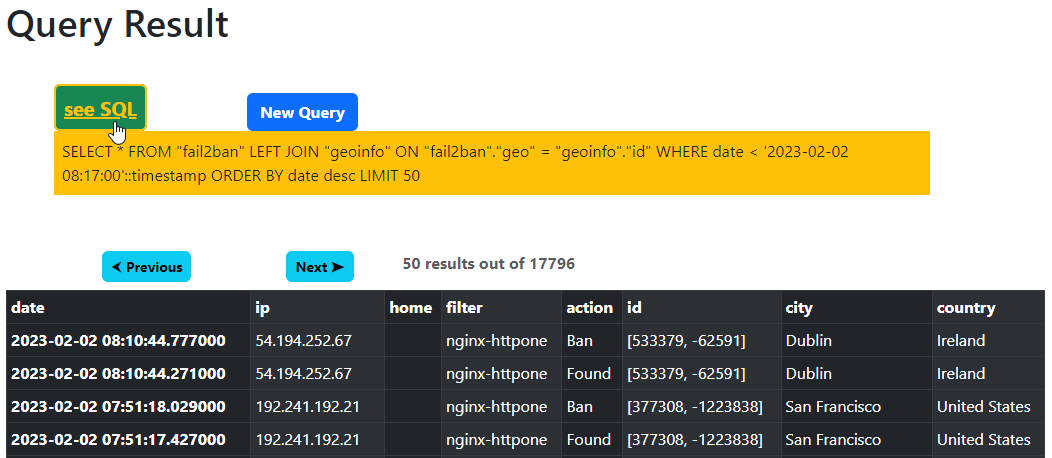
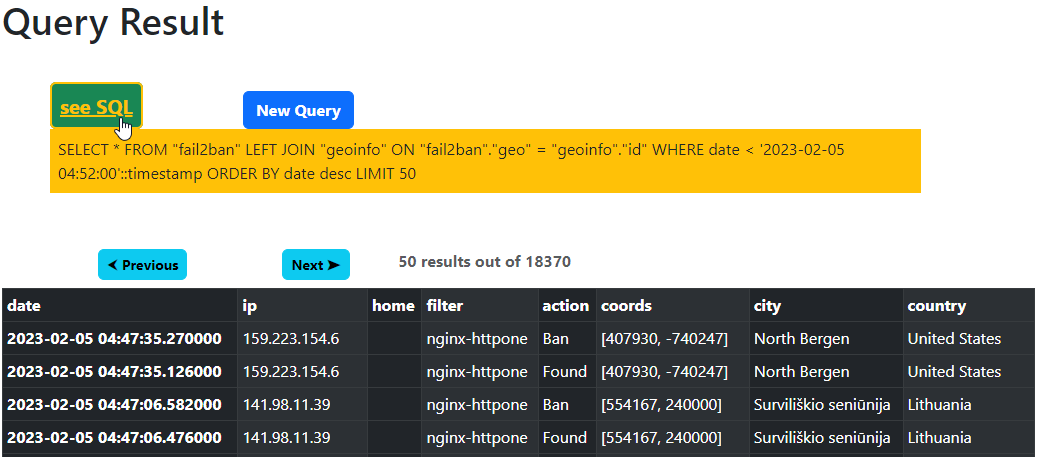
bugfixes, improvements. added to docs

diff --git a/BeatLog/templates/data_view.html b/BeatLog/templates/data_view.html
@@ -48,7 +48,7 @@
 		  <a class="btn btn-sm btn-secondary rounded mx-5 fs-5 fw-bold" href="#IPCollapse" data-bs-toggle="collapse">IP Address</a>
 	    </div>
 		<div class="collapse my-2" id="LocationCollapse">
-		  <p class="text-muted fw-bold ms-5">Specify Country and/or City . . .</p>
+		  <p class="text-muted fw-bold ms-5">Specify Country and/or City . . . <span class="mx-5">check NULL for <a href="{{ url_for('geography.geography') }}">unnamed</a> locations</span></p>
 
 		  <div class="d-flex">
 			  <input class="form-check-input ms-3 px-2 mt-2" type="checkbox" value="" name="countryNULL">
@@ -99,7 +99,7 @@
 		      <button type="submit" class="btn btn-sm btn-dark me-3 fw-bold rounded" name="query_log" value="{{ log }},{{ query|lower }}" 
 			  formtarget="_blank" data-bs-toggle="tooltip" title="{{ log_buttons[log][query] }}" data-bs-html="true">{{ query }}</button>
 			{% endfor %}
-			{% if log == 'fail2ban' %}<em class="mt-1 fw-bold" style="font-size:0.9em"><a href="https://github.com/NBPub/BeatLog/tree/main/docs#known-devices">"Ignorable" docs</a></em>{% endif %}
+			{% if log == 'fail2ban' %}<em class="mt-1 fw-bold" style="font-size:0.9em"><a href="https://github.com/NBPub/BeatLog/tree/main/docs#home-ignorable">"Ignorable" docs</a></em>{% endif %}
 		  </div><br><div class="btn-group my-2" role="group">
 			{% for query in lb2[log] %}
 			  <button type="submit" class="btn btn-sm btn-success me-3 fw-bold rounded" name="query_log" value="{{ log }},{{ query|lower }}" 

diff --git a/docs/index.html b/docs/index.html
@@ -457,7 +457,7 @@
 	    <button class="btn btn-dark ms-4" type="button" data-bs-toggle="collapse" data-bs-target="#homeIgnores">Show Log Matches: 4</button>	
 	    <div class="collapse" id="homeIgnores">
 	      <table class="table table-sm table-responsive table-hover table-bordered table-striped-columns table-dark me-5 mt-3 caption-top">
-		    <caption>More than one access log entry may match a fail2ban ignore. Specify <a href="/settings/">fail2ban home ignores</a> to improve matching.</caption>
+		    <caption>More than one access log entry may match a fail2ban ignore. Specify <a class="disabled" href="/settings/">fail2ban home ignores</a> to improve matching.</caption>
 		    <thead><tr><th scope="col">Date</th><th scope="col">Filter</th><th scope="col">http</th><th scope="col">Method</th><th scope="col">Status</th><th scope="col">bytes</th><th scope="col">Ref+URL</th><th scope="col">Tech</th></tr></thead>
 <tbody>
 <tr>

diff --git a/BeatLog/templates/home.html b/BeatLog/templates/home.html
@@ -2,7 +2,7 @@
 {% block title %}BeatLog - Home{% endblock %}
 {% block content %}
     <h1>BeatLog
-	  <div class="btn-group" role="group" style="float:right;">
+	  <div class="btn-group my-1" role="group" style="float:right;">
 	{% if places == 0 %}
 	    <a href="{{ url_for('home.settings', _anchor='Geography') }}" class="fw-bold btn btn-sm btn-success border-light">Enable Locations</a>
 	{% elif noname %}

diff --git a/BeatLog/db_view.py b/BeatLog/db_view.py
@@ -117,15 +117,17 @@ def db_view_result():
             # clean for geoinfo
             remove = []
             if 'coords' in cols:
-                remove = [cols.index(val) for val in ['geo','id']]
+                remove = ['geo','id']
+                rm_ind = [cols.index(k) for k in remove]
             elif 'geo' in cols:
-                remove = [cols.index('geo')]            
+                remove = ['geo'] 
+                rm_ind = [cols.index(k) for k in remove]
             if remove != []:
                 olddata = data
                 data = []
                 for i,val in enumerate(olddata):
-                    data.append([olddata[i][k] for k in range(0,len(olddata[i])) if k not in remove])
-                _ = [cols.pop(k) for k in remove]
+                    data.append([olddata[i][k] for k in range(0,len(olddata[i])) if k not in rm_ind])
+                _ = [cols.pop(cols.index(k)) for k in remove]
             table = table_build(data, cols, True)            
             # if result > size limit, provide "next" query, and provide current query for return
             total = cur.execute(' '.join([val.as_string(cur) for val in check_seq])).fetchone()[0] 

diff --git a/BeatLog/db_query.py b/BeatLog/db_query.py
@@ -143,7 +143,7 @@ method, status, bytes, CONCAT(referrer, URL) "URL", tech FROM "fail2ban"''')
             sequence.insert(1, sql.SQL('LEFT JOIN {} ON {}.{} = {}.{}').format(sql.Identifier('geoinfo'), 
                         sql.Identifier(log), sql.Identifier('geo'), 
                         sql.Identifier('geoinfo'), sql.Identifier('id')))
-            cols+=['id','coords','city','country']       
+            cols+=['id','coords','city','country']      
     # enable location search if geoinfo exists and it's specified
         if (options[0] or options[1]) and geocheck == []:
             return False, ('❖ No location data to search within query ❖', sequence), None    

diff --git a/docs/README.md b/docs/README.md
@@ -16,7 +16,8 @@
 - [Report](#report-demo)
 	- [Home](#home-demo)
 	- [Outside](#outside-demo)
-	- [Settings, Known Devices](#known-devices)
+	- [Settings: Known Devices](#known-devices)
+	- [Settings: Home Ignorable](#home-ignorable)	
 	- [fail2ban](#fail2ban-demo)
 - [Beat! Button](#beat-button)
 - [Database Explorer](#database-explorer)
@@ -264,7 +265,7 @@ Each unique coordinate pair is saved in a **Geography** table. As described abov
 
 Routine home IP checks and log parsing can be scheduled using the `check_IP` and `check_Log` environmental variables.
 
-Example log of scheduled tasks:
+Example log of scheduled tasks: *comments added by me, they are not part of the log*
 ```python
 [2022-09-17 12:57:04] [1] [INFO] Scheduled Home IP check complete
 [2022-09-17 13:11:37] [1] [INFO] Scheduled Log check complete 
@@ -273,8 +274,9 @@ fail2ban: Parsing completed, 11 lines added in 0s.
 error: Parsing completed, 2 lines added in 0s
 # if locations are enabled and unnamed coordinates exist and a nominatim agent is specified
 # attempt location fill
-[2022-09-17 13:11:41] [1] [INFO] 	Location Fill: 3 locations named out of 4 in 5 seconds
-[2022-09-17 13:11:41] [1] [INFO] Error -- 'address' for (-43.0,67.0).  (35.0,33.0) named Kannavia, Cyprus.  (34.0021,-81.0423) named Columbia, United States.  (28.5,-10.0) named caïdat d'Aouint Lahna, Morocco
+[2022-09-17 13:11:41] [1] [INFO] Location Fill: 3 locations named out of 4 in 5 seconds
+[2022-09-17 13:11:41] [1] [INFO] (35.0,33.0) named Kannavia, Cyprus. (34.0021,-81.0423) named Columbia, United States. (28.5,-10.0) named caïdat d'Aouint Lahna, Morocco
+[2022-09-17 13:11:41] [1] [INFO] Error -- 'address' for (-43.0,67.0)
 # address not found for one location, manual update required
 # see links below
 ```
@@ -369,6 +371,8 @@ Once **Known Devices** have been identified, they can be separated / excluded fr
 
 ![report_set](/docs/pics/Settings_report.png "exclude Known Devices in Report settings")
 
+### Home Ignorable
+
 The criteria for **fail2ban home ignores** may seem redundant, provided the [discussion](#home) in the home section. 
 If fail2ban ignores are found, they are matched to home request(s) based on timestamp and presented together in the **Home Ignores** table. 
 
@@ -437,6 +441,25 @@ a specific start or end time specified. They default to `Starting : one week bef
 ![dataview1](/docs/pics/query_1.png "Query options for Database Explorer") 
 
 Each log be explored, and a variety of filters, settings, and log-specific pre-assembled queries are provided.
+
+| Log - Query | Description |
+| :----: | --- |
+| **ALL** - Basic | Simply use the options specified at the top of the page. They default to all entries, going back from now, limited to 50 rows per page. |
+| --- | --- | --- |
+| **Access** - Ignorable | Hits matching *Home Ignorable* [specification](#home-ignorable), if set. |
+| **Access** - Known Devices | Hits with user-agents matching *Known Devices* [specification](#known-devices), if set. |
+| **Access** - Filtrate | Outside hits with IPs not banned by fail2ban. Matches limited to one-week blocks. |
+| **Access** - Regex2 | Log data processed by the *default* secondary [regex method](#adding-regex-to-logs). They lack [data](#access-logs---access) for HTTP protocol version and request method. |
+| **Access** - HTTP v X | Hits with the specified HTTP network protocol [version](https://developer.mozilla.org/en-US/docs/Web/HTTP/Basics_of_HTTP/Evolution_of_HTTP). One grouping for `2.0` and another for `1.0, 1.1` |
+| **Access** - HTTP Xxx | Hits with the specified HTTP response [status code](https://developer.mozilla.org/en-US/docs/Web/HTTP/Status) grouping. see [Neat Reference](https://www.httpstatuses.org/) |
+| --- | --- | --- |
+| **Error** - IP v X | Internet Protocol address [version](https://en.wikipedia.org/wiki/IP_address#IP_versions). `IPv4` or `IPv6` |
+| **Error** - Filtrate | Outside hits with IPs not banned by fail2ban. Matches limited to one-week blocks. |
+| **Error** - Level | All available Error Log [severity levels](https://en.wikipedia.org/wiki/Syslog#Severity_level) for entries are provided. Parsed data [info](#error-log---error)  |
+| --- | --- | --- |
+| **fail2ban** - Ignores | fail2ban entries with the "Ignore" action. I have fail2ban ignore my local, "Home", IP to allow me to tailor filters.  |
+| **fail2ban** - Match Ignores | Attempt to match fail2ban ignores with home hits on the access log. Home Ignorable [specification](#home-ignorable) may improve matching. Same table as shown in [report](https://nbpub.github.io/BeatLog/#scrollspyHomeIgs). |
+| **fail2ban** - Filter | query for each fail2ban filter |
 
 ![dataview2](/docs/pics/query_2.png "Queries for each log, basic simply uses the options shown above") 
 

diff --git a/README.md b/README.md
@@ -1,7 +1,6 @@
-# <img src="https://raw.githubusercontent.com/NBPub/BeatLog/main/BeatLog/static/favicon.png" title="BeatLog!"> BeatLog 
+# <img src="https://raw.githubusercontent.com/NBPub/BeatLog/main/BeatLog/static/favicon.png" title="BeatLog!"> BeatLog
 
-
-## Overview
+## Overview | [Documentation](/docs#contents)
 - [Background](#background)
 - [Features](#features)
 - [Installation](#installation)
@@ -9,7 +8,7 @@
 	- [Parameters](#parameters)
 	- [Data Sources](#data-sources)	
 	- [Optional Extras](#extra-options)	
-	- [Updates](#updating-postgresql-container), [Container Interaction](#shell-acess-to-container)
+	- [Updates](#updating-postgresql-container), [Container Interaction](#shell-acess-to-beatlog-container)
 - [Setup](#application-setup)
 - [Development](#development)
 	- [Feedback](#development)
@@ -19,15 +18,16 @@
 	
 ## Background
 
-**BeatLog** parses [NGINX](https://www.nginx.com/) reverse proxy and [fail2ban](https://www.fail2ban.org/wiki/index.php/Main_Page) logs into readable tables and reports. 
-Use **BeatLog** to assess server traffic and tailor fail2ban filters.
-
 ![Flask](https://img.shields.io/badge/flask-%23000.svg?style=for-the-badge&logo=flask&logoColor=white)
 ![Postgres](https://img.shields.io/badge/postgres-%23316192.svg?style=for-the-badge&logo=postgresql&logoColor=white)
 ![Jinja](https://img.shields.io/badge/jinja-white.svg?style=for-the-badge&logo=jinja&logoColor=black)
 ![Bootstrap](https://img.shields.io/badge/bootstrap-%23563D7C.svg?style=for-the-badge&logo=bootstrap&logoColor=white)
 ![Chart.js](https://img.shields.io/badge/chart.js-F5788D.svg?style=for-the-badge&logo=chart.js&logoColor=white)
 ![Gunicorn](https://img.shields.io/badge/gunicorn-%298729.svg?style=for-the-badge&logo=gunicorn&logoColor=purple)
+
+**BeatLog** parses [NGINX](https://www.nginx.com/) reverse proxy and [fail2ban](https://www.fail2ban.org/wiki/index.php/Main_Page) logs into readable tables and reports. 
+Use **BeatLog** to assess server traffic and tailor fail2ban filters.
+
 
 ## Features
 
@@ -42,7 +42,7 @@ based on [OpenStreetMap](https://www.openstreetmap.org/about) data.
 
 ----
 
-See the [BeatLog Guide](/docs) for a full list of features. The **Database**, **Report**, and **Visitor Map** are briefly highlighted here.
+See the [BeatLog Guide](/docs#parsing) for a full list of features. The **Database**, **Report**, and **Visitor Map** are briefly highlighted here.
 
 ### Parsed Data
 
@@ -312,7 +312,7 @@ psql -f db.out -U beatlog postgres
  ```
 </details>
 
-### Shell Acess to Container
+### Shell Acess to BeatLog Container
 
 <details><summary>Docker Exec example</summary>
 
@@ -363,7 +363,7 @@ previous: **alpha-0.1.2, alpha-0.1.2t**
   - add tests for code
   - asyncio for scheduled tasks and/or other routines
   - consider smarter way to gather regex methods across functions
-  - solve possible issues with SQL creation: ~~**Known Devices**~~ and [Home Ignores](/docs#known-devices)
+  - solve possible issues with SQL creation: ~~**[Known Devices](/docs#known-devices)**~~ and [Home Ignores](/docs#home-ignorable)
 - Features
   - ~~scheduled task for location lookup, or add to scheduled log checks~~
   - visitor maps, pan to location from table entry
